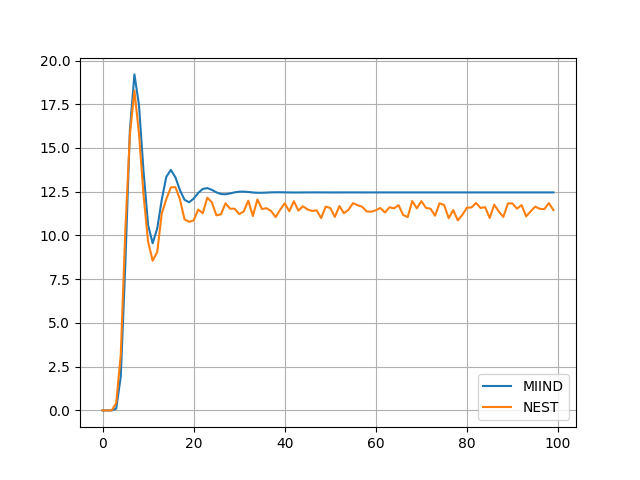
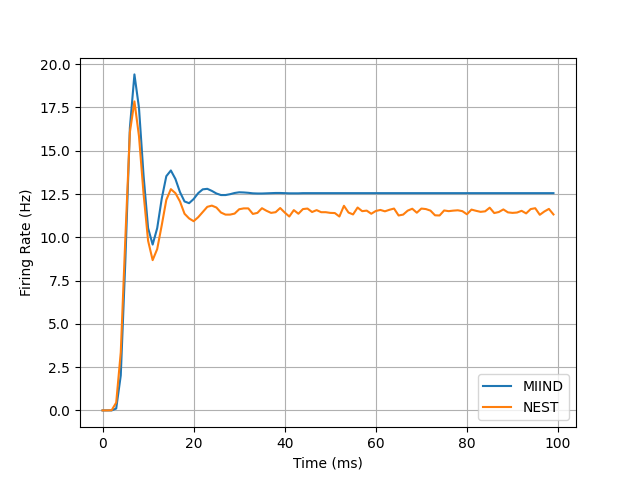
work done on generating figures

diff --git a/analysis.py b/analysis.py
@@ -1,0 +1,121 @@
+import matplotlib.pyplot as plt
+from os import listdir, chdir
+from statistics import mean
+import numpy as np
+
+sizes = [1, 5, 10, 20, 50, 100, 250, 500]
+
+miind_sf_firing_rates = []
+nest_sf_firing_rates = []
+
+nest_balanced_exc_firing_rates = np.zeros((len(sizes), len(sizes)))
+nest_balanced_inh_firing_rates = np.zeros((len(sizes), len(sizes)))
+
+miind_balanced_exc_firing_rates = np.zeros((len(sizes), len(sizes)))
+miind_balanced_inh_firing_rates = np.zeros((len(sizes), len(sizes)))
+
+chdir("miind_results_sub_500/miind_files")
+data_files = listdir("./")
+data_files.sort()
+for size in sizes:
+    for file in data_files:
+        if file[0:13] == "selfconnected" and int(file.split("_")[1]) == size:
+            with open(file, "r") as rates:
+                data = [float(i) for i in rates.readline().split(",")]
+                data.pop()
+                data = mean(data)
+                miind_sf_firing_rates.append(data)
+
+for exc_index, exc_size in enumerate(sizes):
+    for inh_index, inh_size in enumerate(sizes):
+        for file in data_files:
+            if file[0:10] == "balancedEI" and int(file.split("_")[1]) == exc_size \
+                    and int(file.split("_")[2]) == inh_size:
+                with open(file, "r") as rates:
+                    if file.split("_")[3] == "exc":
+                        data = [float(i) for i in rates.readline().split(",")]
+                        data.pop()
+                        data = mean(data)
+                        miind_balanced_exc_firing_rates[exc_index, inh_index] = data
+                    elif file.split("_")[3] == "inh":
+                        data = [float(i) for i in rates.readline().split(",")]
+                        data.pop()
+                        data = mean(data)
+                        miind_balanced_inh_firing_rates[exc_index, inh_index] = data
+chdir("../..")
+
+chdir("nest_results_sub_500/nest_results")
+data_files = listdir("./")
+for size in sizes:
+    for file in data_files:
+        if file[0:13] == "selfconnected" and int(file.split("_")[1]) == size:
+            with open(file, "r") as rates:
+                data = [float(i) for i in rates.readline().split(",")]
+                data.pop()
+                data = mean(data)
+                nest_sf_firing_rates.append(data)
+
+for exc_index, exc_size in enumerate(sizes):
+    for inh_index, inh_size in enumerate(sizes):
+        for file in data_files:
+            if file[0:10] == "balancedEI" and int(file.split("_")[1]) == exc_size \
+                    and int(file.split("_")[2]) == inh_size:
+                with open(file, "r") as rates:
+                    if file.split("_")[3] == "exc":
+                        data = [float(i) for i in rates.readline().split(",")]
+                        data.pop()
+                        data = mean(data)
+                        nest_balanced_exc_firing_rates[exc_index, inh_index] = data
+                    elif file.split("_")[3] == "inh":
+                        data = [float(i) for i in rates.readline().split(",")]
+                        data.pop()
+                        data = mean(data)
+                        nest_balanced_inh_firing_rates[exc_index, inh_index] = data
+chdir("../..")
+
+sf_fig, (miind_ax, nest_ax) = plt.subplots(1, 2)
+
+sizes = [str(size) for size in sizes]
+
+miind_ax.plot(sizes, miind_sf_firing_rates)
+miind_ax.grid()
+
+nest_ax.plot(sizes, nest_sf_firing_rates)
+nest_ax.grid()
+
+sf_fig.suptitle("Self-Connected Gain Curves")
+sf_fig.supxlabel("Number of Connections")
+sf_fig.supylabel("Firing Rate (Hz)")
+
+test = np.random.rand(100, 100)
+
+b_fig, ax = plt.subplots(2, 2, figsize=(8, 6))  # excitatory top row, inhibitory bottom row
+
+ax[0][0].imshow(test, cmap="Greens")
+ax[0][0].set_title("MIIND Excitatory Pop.")
+
+ax[0][1].imshow(nest_balanced_exc_firing_rates, cmap="Greens")
+ax[0][1].set_title("NEST Excitatory Pop.")
+
+ax[1][0].imshow(test, cmap="Reds")
+ax[1][0].set_title("MIIND Inhibitory Pop.")
+
+ax[1][1].imshow(nest_balanced_inh_firing_rates, cmap="Reds")
+ax[1][1].set_title("NEST Inhibitory Pop.")
+
+b_fig.suptitle("Population Firing Rate Heatmaps")
+b_fig.supxlabel("Number of Inhibitory Connections")
+b_fig.supylabel("Number of Excitatory Connections")
+
+
+# b_fig, ax = plt.subplots(2, 2)  # excitatory top row, inhibitory bottom row
+
+# MIIND excitatory
+# MIIND inhibitory
+
+# NEST excitatory
+# ax[0][1].plot(nest_balanced_exc_firing_rates)
+
+# NEST inhibitory
+
+plt.show()

diff --git a/benchmarks/omurtag_graph_generator.py b/benchmarks/omurtag_graph_generator.py
@@ -1,0 +1,25 @@
+import matplotlib.pyplot as plt
+
+miind_data = []
+
+with open("rate_0", "r") as file:
+    data = file.readline()
+    data = [float(i) for i in data.split(",")]
+    miind_data = data[::10]
+
+nest_data = []
+
+with open("omurtag.dat", "r") as file:
+    data = file.readline()
+    nest_data = [float(i) for i in data.split(",")]
+
+
+plt.figure(1)
+plt.plot(miind_data, label="MIIND")
+plt.plot(nest_data, label="NEST")
+plt.xlabel("Time (ms)")
+plt.ylabel("Firing Rate (Hz)")
+plt.grid()
+plt.legend(loc="lower right")
+
+plt.show()

diff --git a/benchmarks/gaussian_graph_generator.py b/benchmarks/gaussian_graph_generator.py
@@ -30,4 +30,7 @@ for i in range(0, len(sigmas)):
 nest_ax.legend(loc="upper left")
 nest_ax.set_title("Gaussian Profile (NEST)")
 
+fig.supxlabel("\u00B5")
+fig.supylabel("Firing Rate (Hz)")
+
 plt.show()
